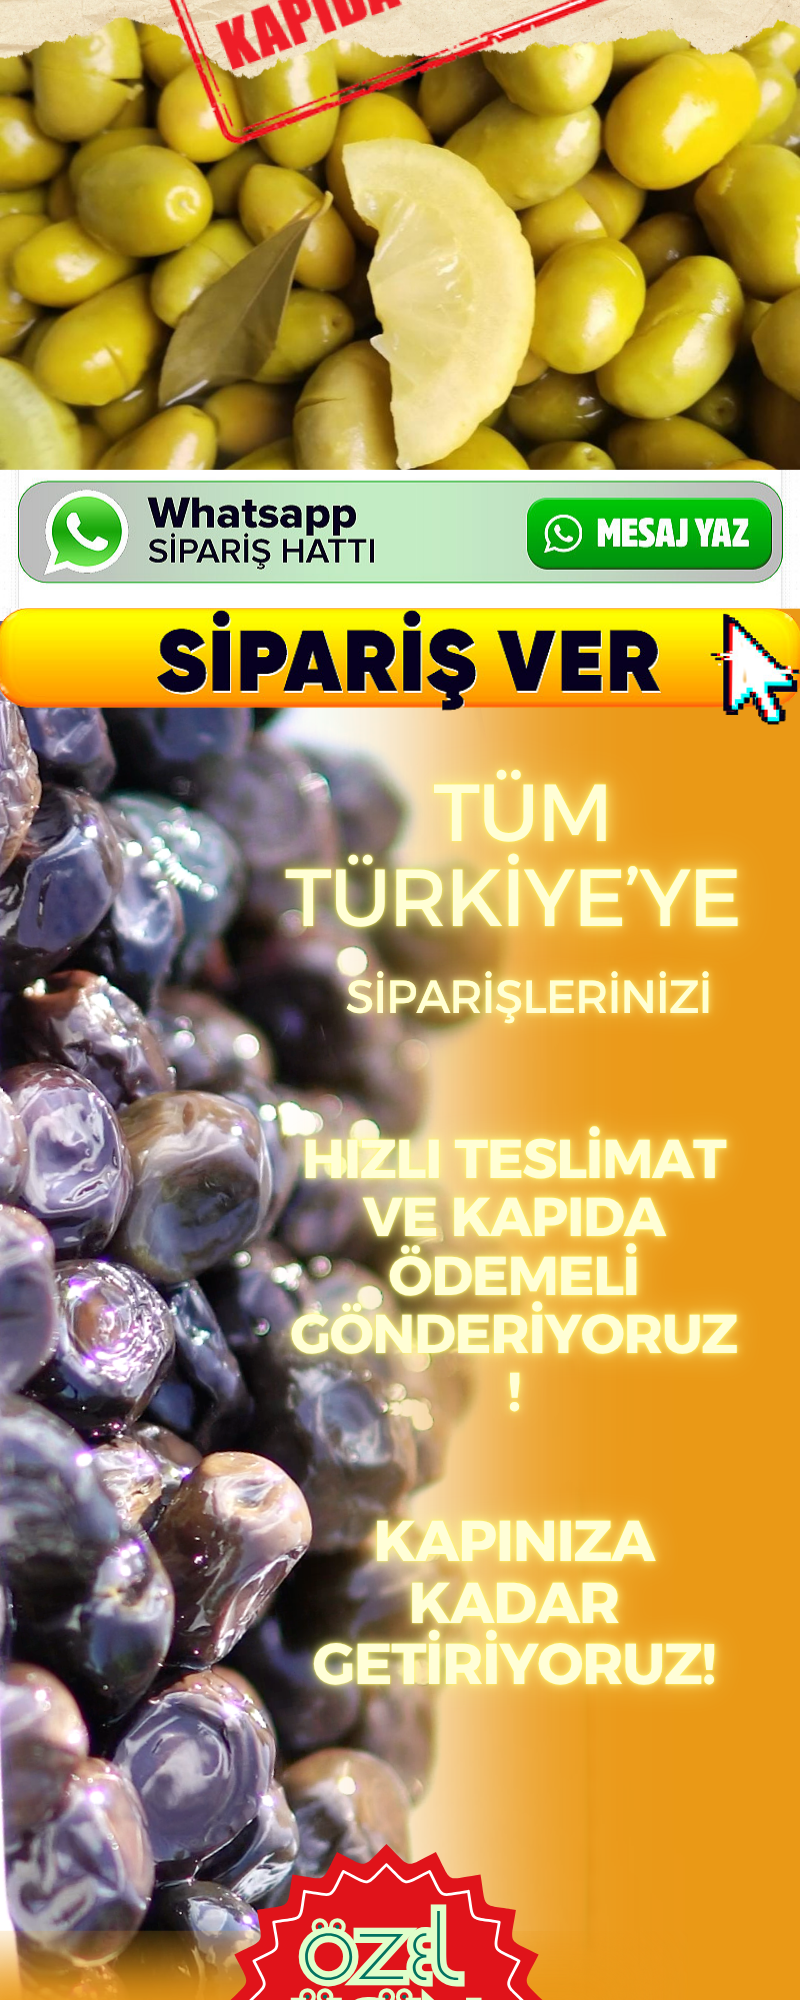
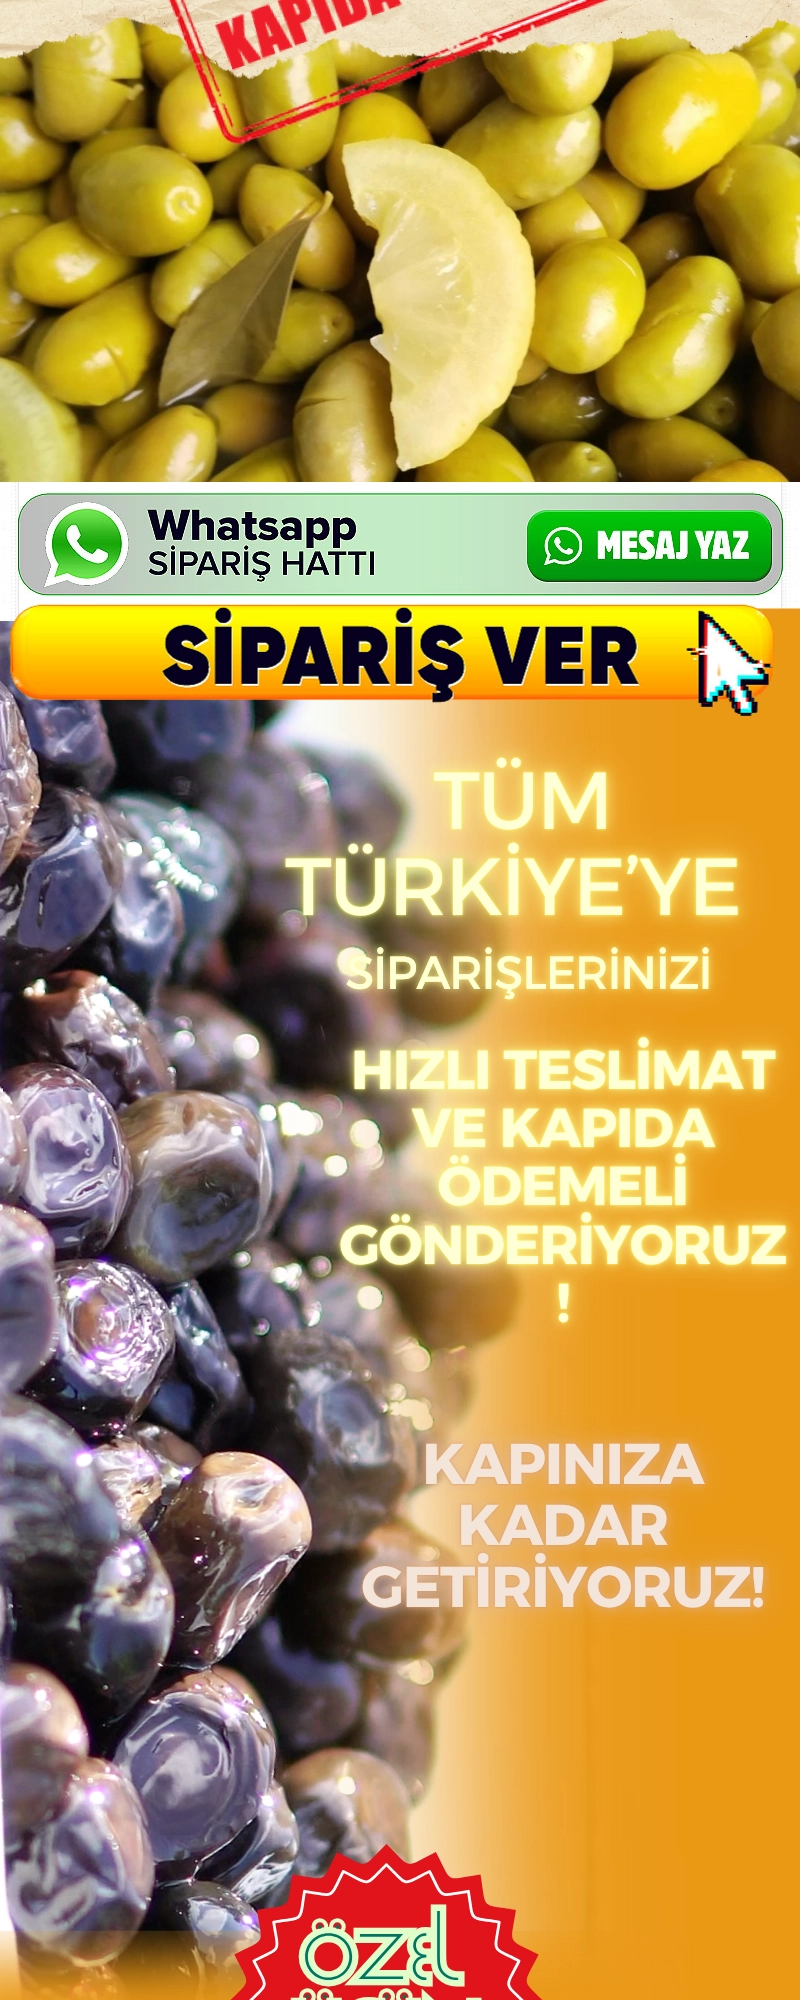
Update zeytin page with new images and clickable WhatsApp areas

Changed region(s): [[0.0, 0.217, 1.0, 0.868], [0.375, 0.961, 0.5625, 1.0]]

diff --git a/index.html b/index.html
@@ -18,14 +18,14 @@
 <meta property="og:type"               content="article" />
 <meta property="og:title" content="Zeytin">
 <meta property="og:description" content="Kapıda ödemeli zeytin siparişi">
-<meta property="og:image" content="https://zeytin.fun/images/zeytin_web_01.webp" />
-<meta property="og:image:type" content="image/webp" />
+<meta property="og:image" content="https://zeytin.fun/images/og-zeytin-01.jpg" />
+<meta property="og:image:type" content="image/jpeg" />
 <meta property="og:image:width" content="800" />
 <meta property="og:image:height" content="2000" />
 <meta property="og:image:alt" content="Gemlik siyah zeytin ve ürün görseli" />
 <meta property="og:url" content="https://zeytin.fun/" />
 <meta name="twitter:card" content="summary_large_image" />
-<meta name="twitter:image" content="https://zeytin.fun/images/zeytin_web_01.webp" />
+<meta name="twitter:image" content="https://zeytin.fun/images/og-zeytin-01.jpg" />
 
 
 
@@ -227,51 +227,29 @@ a {border:0; margin: 0; padding: 0;}
 <div class="site-banner-spacer" aria-hidden="true"></div>
 <div class="site-banner-fixed"><a href="#siparis" aria-label="Sipariş formuna git"><img src="button/banner.webp" alt="Gazioğulları Zeytin" width="700" height="88"></a></div>
 
-<!-- Ürün görselleri sırayla; WhatsApp görsel düğmeleri doğrudan hatta açılır. -->
+<!-- Güncel ürün görselleri; üzerlerindeki WhatsApp ve sipariş alanları tıklanabilir. -->
 <div class="promo-image">
-  <img src="images/zeytin_web_01.webp" alt="Gemlik siyah zeytin ve ürün bilgileri">
+  <img src="images/zeytin_web_01.webp" alt="Gemlik zeytini ve WhatsApp sipariş hattı">
   <a class="promo-order" href="#siparis" aria-label="Sipariş formuna git"><span class="promo-full-hit"></span></a>
-  <a class="promo-whatsapp" href="https://wa.me/905542474500?text=Zeytin%20sipari%C5%9Fi%20vermek%20istiyorum" target="_blank" rel="noopener" aria-label="WhatsApp'tan sipariş ver"><span class="promo-hotspot" style="left:65%;top:92.2%;width:33%;height:6.8%;"></span></a>
+  <a class="promo-whatsapp" href="https://wa.me/905542474500?text=Zeytin%20sipari%C5%9Fi%20vermek%20istiyorum" target="_blank" rel="noopener" aria-label="WhatsApp'tan sipariş ver"><span class="promo-hotspot" style="left:65%;top:93%;width:33%;height:5.5%;"></span></a>
 </div>
 <div class="promo-image">
-  <img src="images/zeytin_web_02.webp" alt="Zeytin tanıtım görseli">
-  <a class="promo-order" href="#siparis" aria-label="Sipariş formuna git"><span class="promo-full-hit"></span></a>
-</div>
-<div class="promo-image">
-  <img src="images/zeytin_web_03.webp" alt="Zeytin siparişi ve WhatsApp iletişim bilgileri">
-  <a class="promo-order" href="#siparis" aria-label="Sipariş formuna git"><span class="promo-hotspot" style="left:1%;top:30.2%;width:97%;height:5%;"></span></a>
-  <a class="promo-whatsapp" href="https://wa.me/905542474500?text=Zeytin%20sipari%C5%9Fi%20vermek%20istiyorum" target="_blank" rel="noopener" aria-label="WhatsApp'tan sipariş ver"><span class="promo-hotspot" style="left:64%;top:24.8%;width:34%;height:5.2%;"></span></a>
-</div>
-<div class="promo-image">
-  <img src="images/zeytin_web_04.webp" alt="Zeytin ve zeytinyağı ürün tanıtımı">
+  <img src="images/zeytin_web_02.webp" alt="Zeytin üretimi ve ürün tanıtımı">
   <a class="promo-order" href="#siparis" aria-label="Sipariş formuna git"><span class="promo-full-hit"></span></a>
 </div>
 <div class="promo-image">
-  <img src="images/zeytin_web_05.webp" alt="Doğal zeytinler ve ürün bilgileri">
-  <a class="promo-order" href="#siparis" aria-label="Sipariş formuna git"><span class="promo-hotspot" style="left:2%;top:24%;width:96%;height:5.2%;"></span></a>
-  <a class="promo-whatsapp" href="https://wa.me/905542474500?text=Zeytin%20sipari%C5%9Fi%20vermek%20istiyorum" target="_blank" rel="noopener" aria-label="WhatsApp'tan sipariş ver"><span class="promo-hotspot" style="left:64%;top:75.7%;width:34%;height:5.8%;"></span></a>
+  <img src="images/zeytin_web_03.webp" alt="Zeytin, kapıda ödeme ve WhatsApp siparişi">
+  <a class="promo-order" href="#siparis" aria-label="Sipariş formuna git"><span class="promo-hotspot" style="left:1%;top:30.4%;width:97%;height:5%;"></span></a>
+  <a class="promo-whatsapp" href="https://wa.me/905542474500?text=Zeytin%20sipari%C5%9Fi%20vermek%20istiyorum" target="_blank" rel="noopener" aria-label="WhatsApp'tan sipariş ver"><span class="promo-hotspot" style="left:65%;top:25.3%;width:33%;height:4.5%;"></span></a>
 </div>
 <div class="promo-image">
-  <img src="images/zeytin_web_06.webp" alt="Siyah zeytin ve sipariş bilgileri">
+  <img src="images/zeytin_web_04.webp" alt="Soğuk sıkım zeytinyağı ve Gemlik zeytini">
   <a class="promo-order" href="#siparis" aria-label="Sipariş formuna git"><span class="promo-full-hit"></span></a>
 </div>
 <div class="promo-image">
-  <a class="promo-image-link" href="https://wa.me/905542474500?text=Zeytin%20sipari%C5%9Fi%20vermek%20istiyorum" target="_blank" rel="noopener" aria-label="WhatsApp sipariş hattına mesaj yaz">
-    <img src="images/zeytin_web_07.webp" alt="WhatsApp sipariş hattı — mesaj yaz">
-  </a>
-</div>
-<div class="promo-image">
-  <img src="images/zeytin_web_08.webp" alt="Doğal zeytin tanıtımı">
-  <a class="promo-order" href="#siparis" aria-label="Sipariş formuna git"><span class="promo-full-hit"></span></a>
-</div>
-<div class="promo-image">
-  <img src="images/zeytin_web_09.webp" alt="Müşteri yorumları">
-  <a class="promo-order" href="#siparis" aria-label="Sipariş formuna git"><span class="promo-full-hit"></span></a>
-</div>
-<div class="promo-image">
-  <a class="promo-image-link" href="https://wa.me/905542474500?text=Zeytin%20sipari%C5%9Fi%20vermek%20istiyorum" target="_blank" rel="noopener" aria-label="WhatsApp sipariş hattına mesaj yaz">
-    <img src="images/zeytin_web_10.webp" alt="WhatsApp sipariş hattı — mesaj yaz">
-  </a>
+  <img src="images/zeytin_web_05.webp" alt="Doğal zeytinler, sipariş ve WhatsApp hattı">
+  <a class="promo-order" href="#siparis" aria-label="Sipariş formuna git"><span class="promo-hotspot" style="left:2%;top:30.4%;width:96%;height:5.5%;"></span></a>
+  <a class="promo-whatsapp" href="https://wa.me/905542474500?text=Zeytin%20sipari%C5%9Fi%20vermek%20istiyorum" target="_blank" rel="noopener" aria-label="WhatsApp'tan sipariş ver"><span class="promo-hotspot" style="left:65%;top:76%;width:33%;height:4.5%;"></span></a>
 </div>
 <div style="position: fixed;bottom: 0;left:50%;transform:translateX(-50%);width:100%;max-width:700px;z-index:9999;">
 	<div style="position:relative">
